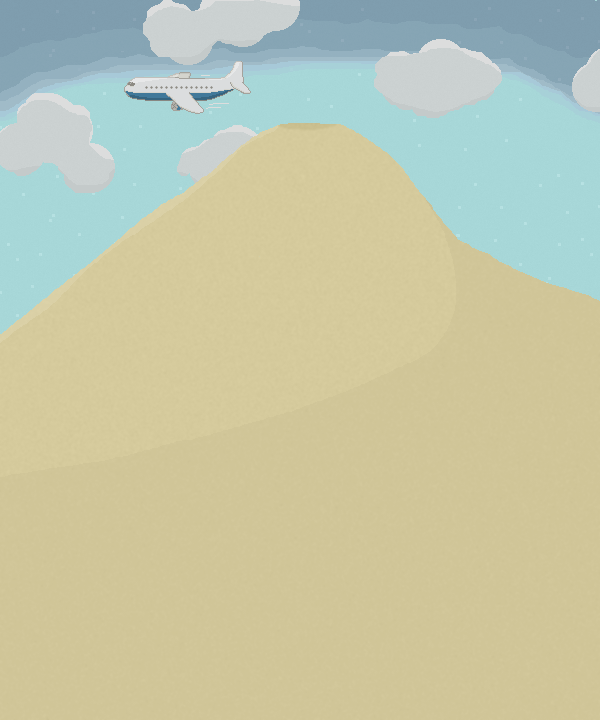
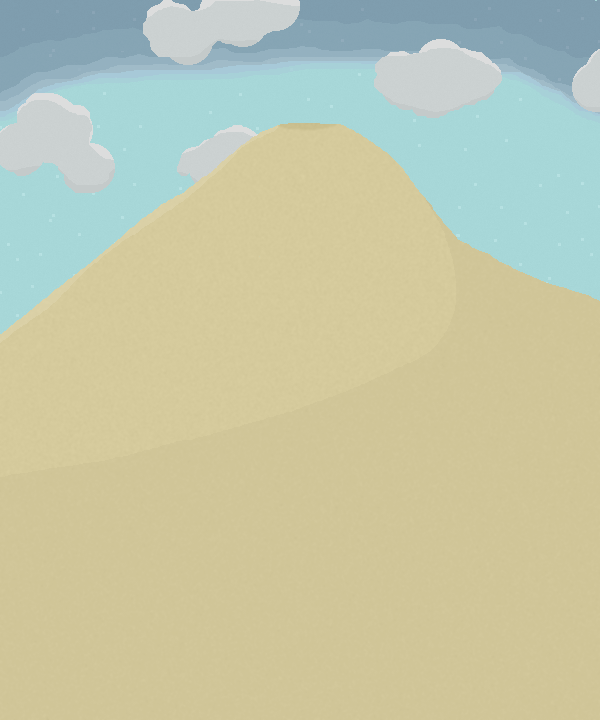
Plane done

Changed region(s): [[0.21, 0.0611, 0.42, 0.1528]]

diff --git a/main.js b/main.js
@@ -1,4 +1,4 @@
-let cheatMode = false;
+let cheatMode = true;
 
 // UI Objects
 let currentBackground = 1;
@@ -172,6 +172,10 @@ let effectAmount = 1;
 // Variable for leaderboards
 let timePlayed;
 
+let bg;
+// Plane
+let plane;
+
 // Initializes all UI elements
 function initializeUIElements() {
     gameBackground = new Sprite("tallBG1.png", 0, 0, GAME.WIDTH, GAME.HEIGHT, 100);
@@ -333,6 +337,11 @@ function initializeUIElements() {
     currentAntsheet = new RenderAnimation(antsheetArray[0], 0, 0, GAME.WIDTH, GAME.HEIGHT, 3, true, 97);
     currentAntsheet.play();
 
+    bg = 0;
+
+    plane = new Sprite("Plane.png", 700, 50, 130, 60, 96);
+    plane.visible = false;
+
     timePlayed = 0;
 }
 
@@ -354,9 +363,23 @@ function update() {
     updateInfoValues();
     updateDisplayPanelBuyColor();
 
+    // Plane animation
+    planeAnim();
+
     timePlayed++;
     // end game trigger stops timePlayed counter...
     // divide it by 60 at end because game updates at 60 ticks per second
+}
+
+function planeAnim() {
+    var speed = 1;
+    plane.visible = bg == 4;
+    if (plane.visible) {
+        plane.x -= speed;
+        if (plane.x < -plane.width) {
+            plane.x = GAME.WIDTH;
+        }
+    }
 }
 
 function updateDisplayPanelBuyColor() {
@@ -988,6 +1011,7 @@ function displayUpgrade(category, id, name, cost, description, requirements, eff
                         if (currentBackground != background) {
                             gameBackground.image.src = GAME.ASSETS_PATH + "tallBG" + background + ".png";
                             currentBackground = background;
+                            bg = background;
 
                             //Plays correct antsheet depending on bg
                             destroy(currentAntsheet);
@@ -1116,7 +1140,7 @@ function displayUpgrade(category, id, name, cost, description, requirements, eff
                     if (type === "win") {
                         gameBackgroundOverlay.visible = true;
                         gameBackgroundOverlay.image.src = GAME.ASSETS_PATH + "TallBackgroundsClouds.png";
-                        gameBackground.image.src = GAME.ASSETS_PATH + "TallBackgroundsScienceW.png";
+                        gameBackground.image.src = GAME.ASSETS_PATH + "tallBG5.png";
                         endGame("SCIENTIFIC VICTORY");
                     }
 
